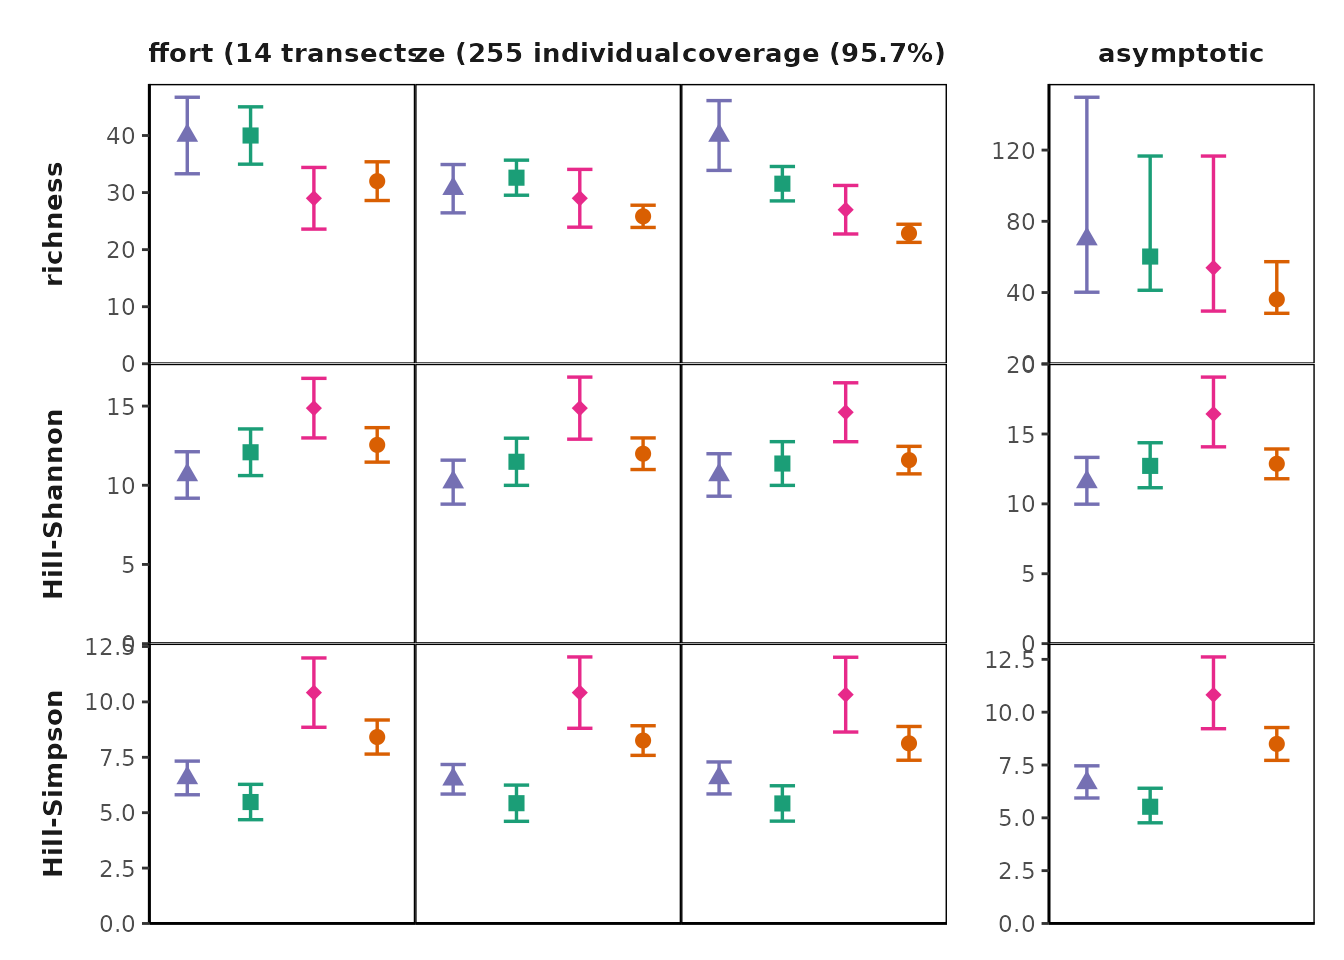
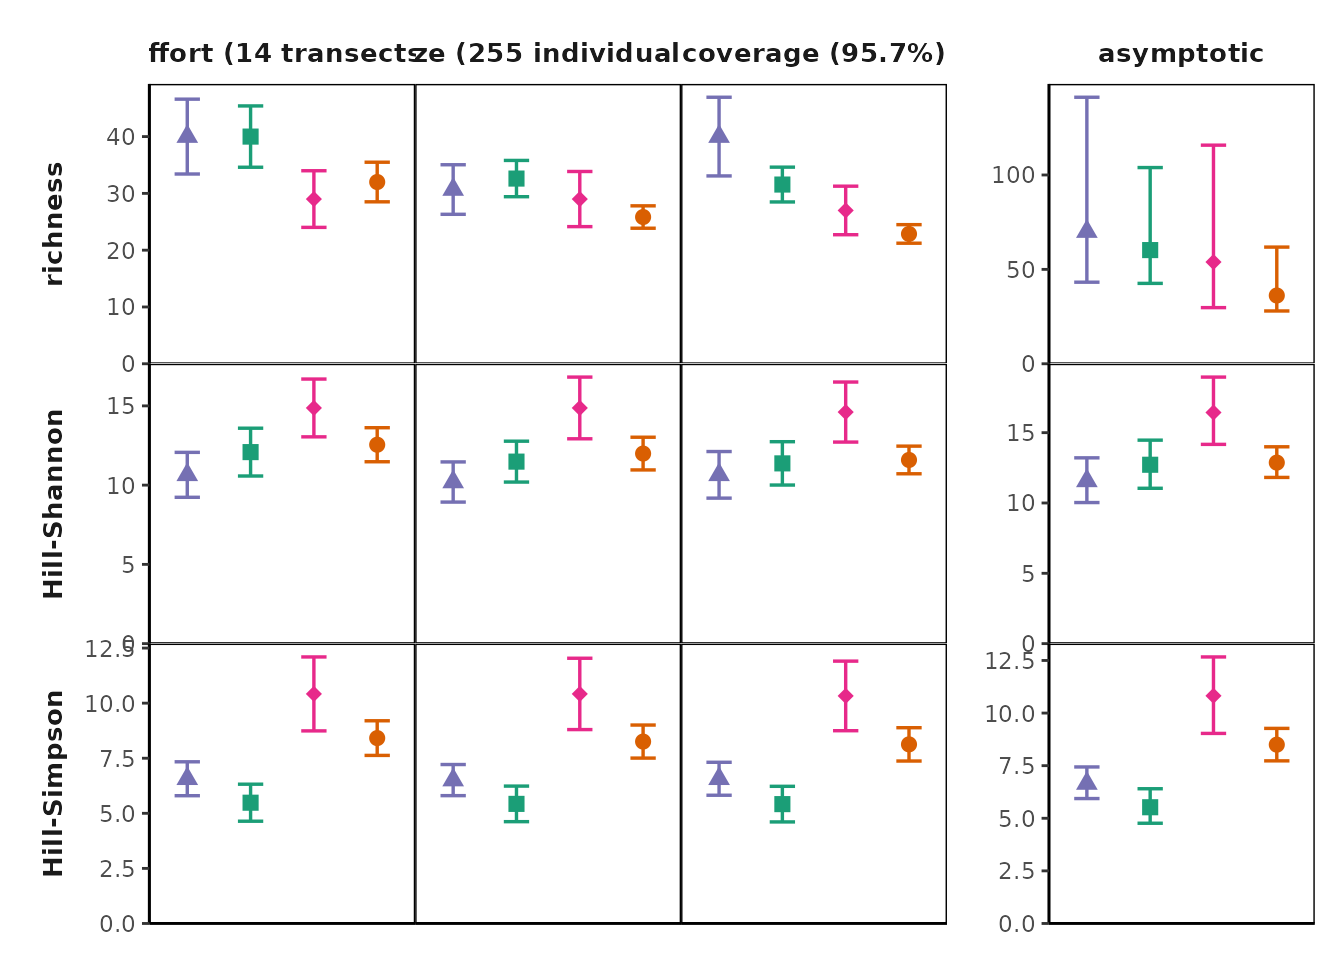
Built site for MeanRarity: 0.0.1.0000@ced8c41

diff --git a/articles/Using_MeanRarity.html b/articles/Using_MeanRarity.html
@@ -98,10 +98,10 @@
 <h1 class="hasAnchor">
 <a href="#abstract" class="anchor"></a>ABSTRACT</h1>
 <ol style="list-style-type: decimal">
-<li><p>Detecting, describing, and predicting biodiversity shifts, a critical project in ecology and evolution, requires metrics with well-understood numerical and statistical properties, and transparent interpretations. Recently, Hill diversity measures have been promoted for their ability to accommodate many historical biodiversity concepts, and quantify diversity in natural “effective numbers” units. The transformation to the effective numbers scale, while potentially easing comparability and interpretability of disparate measures, can fuel false beliefs about the numerical and statistical properties of Hill diversity measures. Re-parameterizing the Hill number equation in terms of the generalized mean opens avenues to investigate the numerical and statistical properties of these widely-used measures.</p></li>
-<li><p>Here, we present the <code>R</code> package <code>MeanRarity</code>, which enables estimating and visualizing Hill diversity (aka “Hill numbers”) in terms of the average species “rarity.” Rarity is defined as the reciprocal of relative abundance. Users can compute mean rarity, generate plots to visualize species abundance distributions and their average rarity, and simulate species abundance distributions with known diversity. Here, we simulate species abundance distributions, and estimate the diversity of these assemblages based on random samples from these distributions. We investigate how the bias and variability of Hill diversity estimates (i.e., the diversity of the sample, and the estimated true diversity of the whole species abundance distriution) depend on the scaling parameter in the Hill equation, features of the species abundance distribution such as evenness, and sampling intensity.</p></li>
-<li><p>Our simulations reveal that Hill-Simpson diversity estimates can be highly variable. Within the range of sample sizes we investigated, sample Hill diversity was always most variable when the scaling parameter was equal to -1 (Hill-Simpson diversity). While the asymptotic estimator for Hill-Simpson diversity was relatively more stable, it was still more variable than asymptotic Hill-diversity estimates where the scaling parameter was between -1 and 1. Furthermore, the asymptotic estimator for Hill-Simpson diversity exhibited greater bias at low sample sizes than the asymptotic estimator for Hill diversities with intermediate scaling parameter values, although as previously reported the bias is negligible for the asymptotic estimates for Hill diversity with a scaling parameter less than about 0.75 for all species abundance distributions once samples sizes were relatively large.</p></li>
-<li><p><code>MeanRarity</code> provides tools to students, researchers, and biostatisticians to understand and investigate Hill diversity metrics. Fixing diversity values, a priori, in simulated species abundance distributions enables replicable, targeted testing of numerical and statistical properties of Hill diversities and their estimators. With this simulation platform, we tested Hill diversity estimates on samples from species abundance distributions that differed in shape, but not in richness or evenness. Our simulations reveal that for both sample Hill diversities and asymptotic Hill diversity estimates, lower bias and variability may be possible with a scaling parameter value between -1 and 1 (i.e. between Hill-Simpson diversity and richness) for small, incomplete samples.</p></li>
+<li><p>Detecting, describing, and predicting biodiversity shifts, a critical project in ecology and evolution, requires metrics with well-understood numerical and statistical properties, and transparent interpretations. Recently, Hill diversity measures have been promoted for their ability to accommodate many historical biodiversity concepts, and quantify diversity in natural “effective numbers” units. The switch to the “effective numbers” scale, while potentially easing comparability and interpretability of disparate measures, can fuel false beliefs about the numerical and statistical properties of Hill diversity measures. Re-parameterizing the Hill number equation in terms of the generalized mean rarity opens avenues to investigate the numerical and statistical properties of these widely-used measures.</p></li>
+<li><p>Here, we present the <code>R</code> package <code>MeanRarity</code>, which enables estimating and visualizing Hill diversity (aka “Hill numbers”) in terms of the average species “rarity.” Rarity is defined as the reciprocal of relative abundance. Users can compute mean rarity, generate plots to visualize species abundance distributions and their average rarity, and simulate species abundance distributions with known diversity. Here, we simulate species abundance distributions, and estimate the diversity of these assemblages based on random samples from these distributions. We investigate how the bias and variability of Hill diversity estimates (i.e., the diversity of the sample, and the estimated true diversity of the whole species abundance distribution) depend on the scaling parameter in the Hill equation, features of the species abundance distribution such as evenness, and sampling intensity.</p></li>
+<li><p>Our simulations reveal that Hill-Simpson diversity estimates can be highly variable. Within the range of sample sizes we investigated, sample Hill diversity was always most variable when the scaling parameter was equal to -1 (Hill-Simpson diversity). While the asymptotic estimator for Hill-Simpson diversity was relatively more stable, it was still more variable than asymptotic Hill-diversity estimates where the scaling parameter was between -1 and 1. Furthermore, the asymptotic estimator for Hill-Simpson diversity exhibited greater bias at low sample sizes than the asymptotic estimator for Hill diversities with intermediate scaling parameter values, although, as previously reported, the bias is negligible for the asymptotic estimates for Hill diversity with a scaling parameter less than about 0.75 once samples sizes were relatively large, for all species abundance distributions tested.</p></li>
+<li><p><code>MeanRarity</code> provides tools to students, researchers, and biostatisticians to understand and investigate Hill diversity metrics. Fixing diversity values, <em>a priori</em>, in simulated species abundance distributions enables replicable, targeted testing of numerical and statistical properties of Hill diversities and their estimators. With this simulation platform, we tested Hill diversity estimates on samples from species abundance distributions that differed in shape, but not in richness. Our simulations reveal that for both sample Hill diversities and asymptotic Hill diversity estimates, lower bias and variability may be possible with a scaling parameter value between -1 and 1 (i.e. between Hill-Simpson diversity and richness) for small, incomplete samples.</p></li>
 </ol>
 </div>
 <div id="introduction" class="section level1">
@@ -282,9 +282,9 @@
 <span class="va">uneven_sample</span> <span class="op">&lt;-</span> <span class="fu"><a href="../reference/sample_infinite.html">sample_infinite</a></span><span class="op">(</span><span class="va">uneven_SAD</span><span class="op">$</span><span class="va">rel_abundances</span>, <span class="fl">50</span><span class="op">)</span>
 <span class="co">#sample_infinite returns a numeric vector of sample species abundances</span>
 <span class="va">even_sample</span>
-<span class="co">#&gt;  [1] 11  5  4  7  5  5  1  1  1  1  2  2  2  0  0  2  0  0  1  0</span>
+<span class="co">#&gt;  [1] 6 7 3 3 7 4 2 2 1 2 1 3 0 1 2 3 1 0 1 1</span>
 <span class="va">uneven_sample</span>
-<span class="co">#&gt;  [1] 16  6  8  2  4  3  1  3  0  2  2  0  1  0  1  1  0  0  0  0</span>
+<span class="co">#&gt;  [1] 20  8  5  1  8  1  1  1  1  0  3  0  0  0  0  0  1  0  0  0</span>
 <span class="co"># compare diversity from sample vs. ideal SAD:</span>
 <span class="co"># likely pretty far off for a small sample!</span>
 
@@ -296,7 +296,7 @@
   <span class="fu"><a href="../reference/rarity.html">rarity</a></span><span class="op">(</span><span class="va">even_sample</span>, <span class="va">l</span><span class="op">)</span>
 <span class="op">}</span><span class="op">)</span><span class="op">)</span>
 <span class="co">#&gt;      [,1] [,2]     [,3]    </span>
-<span class="co">#&gt; [1,] 15   11.10527 8.865248</span>
+<span class="co">#&gt; [1,] 18   14.39215 12.01923</span>
 <span class="co"># with an uneven SAD, sample Hill-Simpson can be higher than true Hill-Simpson</span>
 <span class="co"># richness is always lower</span>
 <span class="va">uneven_SAD</span><span class="op">$</span><span class="va">community_info</span>
@@ -306,7 +306,7 @@
   <span class="fu"><a href="../reference/rarity.html">rarity</a></span><span class="op">(</span><span class="va">uneven_sample</span>, <span class="va">l</span><span class="op">)</span>
 <span class="op">}</span><span class="op">)</span><span class="op">)</span>
 <span class="co">#&gt;      [,1] [,2]     [,3]    </span>
-<span class="co">#&gt; [1,] 13   8.594807 6.157635</span>
+<span class="co">#&gt; [1,] 11   6.180803 4.401408</span>
 <span class="va">big_even_sample</span> <span class="op">&lt;-</span> <span class="fu"><a href="../reference/sample_infinite.html">sample_infinite</a></span><span class="op">(</span><span class="va">even_SAD</span><span class="op">$</span><span class="va">rel_abundances</span>, <span class="fl">1e7</span><span class="op">)</span>
 <span class="va">big_uneven_sample</span> <span class="op">&lt;-</span> <span class="fu"><a href="../reference/sample_infinite.html">sample_infinite</a></span><span class="op">(</span><span class="va">uneven_SAD</span><span class="op">$</span><span class="va">rel_abundances</span>, <span class="fl">1e7</span><span class="op">)</span>
 
@@ -318,7 +318,7 @@
   <span class="fu"><a href="../reference/rarity.html">rarity</a></span><span class="op">(</span><span class="va">big_even_sample</span>, <span class="va">l</span><span class="op">)</span>
 <span class="op">}</span><span class="op">)</span><span class="op">)</span>
 <span class="co">#&gt;      [,1] [,2]     [,3]    </span>
-<span class="co">#&gt; [1,] 20   15.11756 11.99423</span>
+<span class="co">#&gt; [1,] 20   15.11854 11.99712</span>
 <span class="co"># with an uneven SAD, sample Hill-Simpson can be higher than true Hill-Simpson</span>
 <span class="co"># richness is always lower</span>
 <span class="va">uneven_SAD</span><span class="op">$</span><span class="va">community_info</span>
@@ -328,7 +328,7 @@
   <span class="fu"><a href="../reference/rarity.html">rarity</a></span><span class="op">(</span><span class="va">big_uneven_sample</span>, <span class="va">l</span><span class="op">)</span>
 <span class="op">}</span><span class="op">)</span><span class="op">)</span>
 <span class="co">#&gt;      [,1] [,2]     [,3]    </span>
-<span class="co">#&gt; [1,] 20   9.363685 5.993967</span></code></pre></div>
+<span class="co">#&gt; [1,] 20   9.374909 6.002253</span></code></pre></div>
 <p>For any distribution of relative abundances, one can ask, “what is the Hill diversity of this distribution?” Yet the answer, of course, depends on the chosen value of the scaling parameter <span class="math inline">\(\ell\)</span>. For a comprehensive answer, one might look across values of <span class="math inline">\(\ell\)</span>, also known as a Hill “diversity profile” <span class="citation">(Chao et al. 2014)</span>. <code>MeanRarity</code> provides a function to generate a Hill diversity profile based on <span class="math inline">\(\ell\)</span> (rather than <span class="math inline">\(q\)</span>): <code><a href="../reference/divpro.html">divpro()</a></code>.</p>
 <div class="sourceCode" id="cb10"><pre class="downlit sourceCode r">
 <code class="sourceCode R"><span class="co"># the even and uneven communities have same richness but different Hill diversity when `ell != 1`</span>
